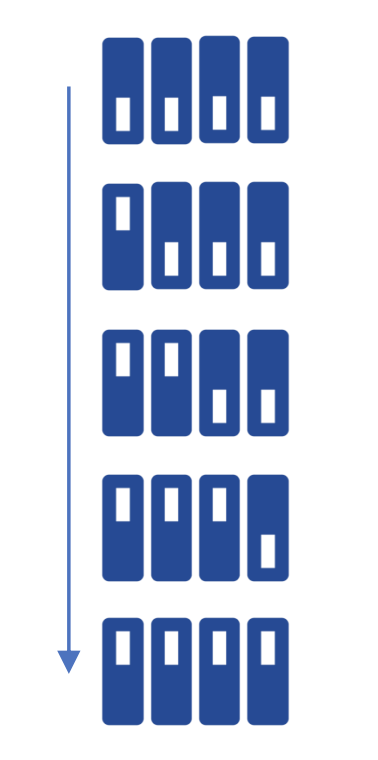
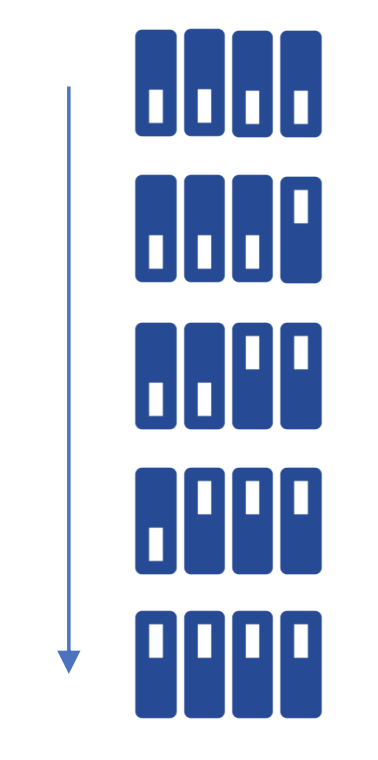
FIX: pictures

Changed region(s): [[0.2619, 0.6053, 0.873, 0.9684], [0.2619, 0.0303, 0.873, 0.3934], [0.2619, 0.4237, 0.873, 0.575]]

diff --git a/fpga/practicum/6_BCD_counter/README.md b/fpga/practicum/6_BCD_counter/README.md
@@ -155,10 +155,9 @@ you can perform a simple **RTL elaboration** in Vivado that at the end generates
 Explore the RTL schematic generated by Vivado and try yourself to reconstruct the **design hierarchy**.
 
 
-TODO: add RTL schematic with empty decoder
+<img src="doc/pictures/BCD_counter_vivado.png" alt="drawing"/>
 
-
-<br />
+<br /><br />
 
 >
 > **QUESTION**
@@ -179,10 +178,16 @@ Close Vivado once happy.
 ## RTL coding
 [**[Contents]**](#contents)
 
-As you can inspect from the **RTL schematic** the actual implementation for the `OneHotAnodeDecoder`
+As you can inspect from the RTL schematic the actual implementation for the `OneHotAnodeDecoder`
 module is missing and Vivado infers a **black box** (empty module) for this block.
 
-Open with your preferred text-editor the `rtl/OneHotAnodeDecoder.v` empty source file already
+<br />
+
+<img src="doc/pictures/BlackBox.png" alt="drawing" width="350"/>
+
+<br />
+
+Open with your preferred text-editor the `rtl/OneHotAnodeDecoder.v` template already
 prepared for you:
 
 ```
@@ -202,7 +207,7 @@ To complete the RTL design **try yourself** to code in Verilog the functionality
 module OneHotAnodeDecoder (
 
    input  wire [1:0] slice,
-   output reg  [3:0] anode        // 4-bit bus driven inside 'always' block
+   output reg  [3:0] anode        // 4-bit bus driven inside an 'always' block
    //output wire  [3:0] anode     // 4-bit bus driven by continuous 'assign' statements 
 
    ) ;
@@ -220,6 +225,13 @@ endmodule
 Choose the desired **coding style** to implement the requested functionality
 for this block. Feel free to use simple continuous `assign` statements or higher-level
 behavioural constructs such as `for` loops, `case` or `if/else` statements.
+
+Please remind that you can check for syntax errors at any time by compiling
+your source code with:
+
+```
+% make compile hdl=rtl/OneHotAnodeDecoder.v
+```
 
 <br />
 <!--------------------------------------------------------------------->
@@ -333,11 +345,13 @@ Once done, save the file and try to re-run the flows from scratch up to FPGA pro
 Verify the expected functionality of the new firmware after your changes.
 
 <br />
+<!--------------------------------------------------------------------->
+
 
 **EXERCISE 2**
 
-Add a **debouncer** to the `button` input in order to **filter out spurious glitches** due to **mechanical chattering** when pressing
-the external push-button to increment the counter:
+Add a **debouncer** to the `button` input in order to **filter out spurious glitches** due to **mechanical chattering**
+when pressing the external push-button to increment the counter:
 
 ```verilog
 wire button_debounced ;
@@ -373,7 +387,11 @@ Once done, save the file and try to re-run the flows from scratch up to FPGA pro
 
 Verify if with a debouncer the BCD counter now counts as expected.
 
+TODO: draw on paper the schematic of the `Debouncer` module !
+
 <br />
+<!--------------------------------------------------------------------->
+
 
 **EXERCISE 3**
 
@@ -421,10 +439,13 @@ Verify the functionality of the new firmware after your changes.
 
 
 <br />
+<!--------------------------------------------------------------------->
+
 
 **EXERCISE 4**
 
-Reduce the **refresh frequency** for the 7-segment display module below 0.1 Hz. Re-run the flows from scratch up to FPGA programming and
+Reduce the **refresh frequency** for the 7-segment display module below 0.1 Hz.
+Re-run the flows from scratch up to FPGA programming and
 verify the functionality of the new firmware after your changes.
 
 <br />

diff --git a/fpga/practicum/11_sequence_detector_FSM/README.md b/fpga/practicum/11_sequence_detector_FSM/README.md
@@ -14,6 +14,7 @@
 * [**Design constraints**](#design-constraints)
 * [**Implement the design on target FPGA**](#implement-the-design-on-target-fpga)
 * [**Install and debug the firmware**](#install-and-debug-the-firmware)
+* [**Exercise**](#exercise)
 
 
 <br />
@@ -33,6 +34,20 @@ available on the Digilent _Arty_ board from right to left as depicted in figure.
 
 <img src="doc/pictures/RequestedSwitchSequence.png" alt="drawing" width="200"/>
 
+<br /><br />
+
+In practice the circuit has to be able to detect a **thermometer-code** sequence
+
+```verilog
+4'b0001
+4'b0011
+4'b0111
+4'b1111
+```
+
+<br>
+
+generated using slide-switches as inputs for the state-machine.
 
 <br />
 <!--------------------------------------------------------------------->
@@ -236,6 +251,19 @@ system **upload the firmware** from the command line using:
 Once the firmware has been successfully installed press the **RESET** button, then play with
 slide-switches and check if your state-machine properly detects the requested sequence.
 Debug the value of the current-state by looking at standard LEDs.
+
+<br />
+<!--------------------------------------------------------------------->
+
+
+## Exercise
+[**[Contents]**](#contents)
+
+Modify the FSM in order to detect the opposite sequence, from left to right as depicted in figure.
+
+<br />
+
+<img src="doc/pictures/RequestedSwitchSequenceExercise.png" alt="drawing" width="200"/>
 
 <br />
 <!--------------------------------------------------------------------->

diff --git a/fpga/practicum/5_LED_blink/README.md b/fpga/practicum/5_LED_blink/README.md
@@ -762,6 +762,12 @@ input port for the trigger.
 
 <img src="doc/pictures/POWER_header.png" alt="drawing" width="400"/>
 
+<br />
+
+<img src="doc/pictures/RESET_BTN_oscilloscope.png" alt="drawing" width="700"/>
+
+<br /><br />
+
 >
 > **QUESTION**
 >
@@ -784,7 +790,7 @@ The typical **bandwidth** for an **entry-level oscilloscope** is usually between
 This range is more than enough for general electronics, learning and teaching purposes, FPGA/microcontroller
 projects and to deal with common audio signals. This is the case of most oscilloscopes available in the lab.
 
-As a result due to **bandwidth limitation** it might be not possible to directly probe and display a clean 100 MHz clock-waveform.
+As a result due to **bandwidth limitations** it might be not possible to directly probe and display a clean 100 MHz clock-waveform.
 In such a situation we can use a **clock-divider** to take measurements on a lower-frequency clock-waveform starting 
 from a higher-frequency clock.
 

diff --git a/fpga/practicum/2_gates/README.md b/fpga/practicum/2_gates/README.md
@@ -745,6 +745,14 @@ After the implementation has successfully completed install the firmware to the 
 
 <br />
 
+In case of implementation errors debug the Vivado **log file** at the command line with:
+
+```
+% grep ERROR build.log
+```
+
+<br />
+
 Verify the functionality of the ring-oscillator you have mapped on real hardware.
 Use the **SW0** slide-switch assigned to the `start` Verilog input port
 to enable/disable the oscillator and probe the `clk` signal at the oscilloscope.
